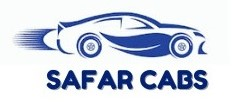
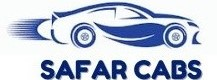
Nav Modify

diff --git a/css/responsive.css b/css/responsive.css
@@ -58,6 +58,13 @@ h3 {
     display: none;
     margin-bottom: 0;
 }
+.navbar {
+    padding: 0px;
+}
+.navbar-area .navbar-brand {
+    width: 90px;
+    padding: 0px 0 0;
+}
 .mobile-nav .logo img {
     max-width: 120px;
     height: 40px;
